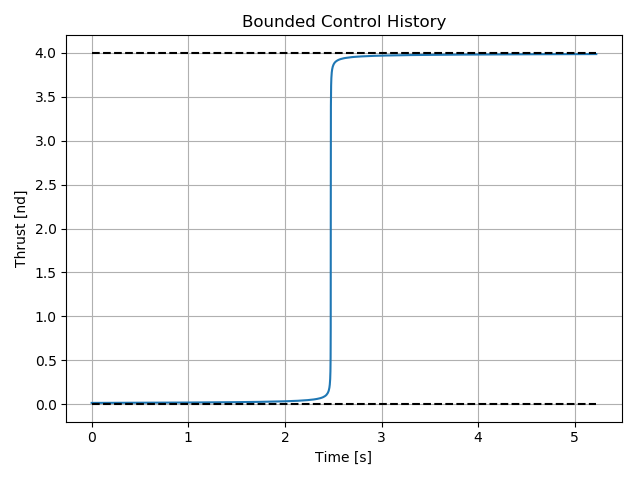
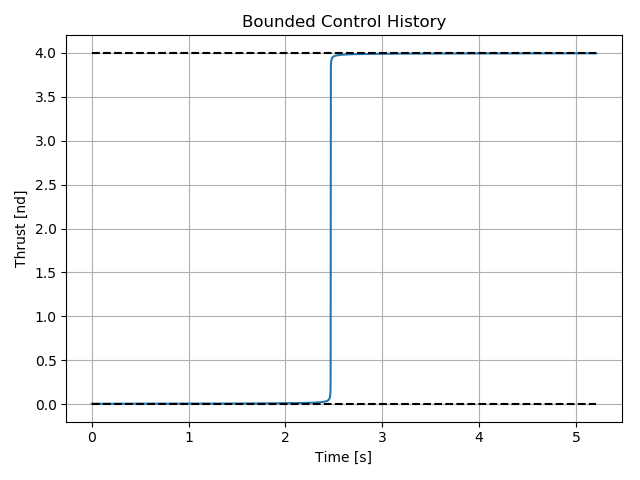
Ref #180 Adding some useful plots

Changed region(s): [[0.5, 0.0938, 0.9375, 0.1875], [0.1562, 0.7812, 0.5312, 0.8438], [0.875, 0.9062, 0.9062, 0.9375]]

diff --git a/examples/6-goddard/goddard.py b/examples/6-goddard/goddard.py
@@ -103,7 +103,7 @@ continuation_steps.add_step() \
 
 continuation_steps.add_step() \
     .num_cases(10, spacing='log') \
-    .const('eps', 0.0001)
+    .const('eps', 0.001)
 
 continuation_steps.add_step() \
     .num_cases(10, spacing='log') \
@@ -124,7 +124,32 @@ sol_set = beluga.solve(
 sol = sol_set[-1][-1]
 
 plt.figure()
-plt.plot(sol.t, np.sin(sol.u[:, 0]))
-plt.figure()
 plt.plot(sol.t, sol.y[:, 0])
+plt.xlabel('Time [s]')
+plt.ylabel('Altitude [nd]')
+plt.title('Altitude Profile')
+plt.grid('on')
+
+plt.figure()
+plt.plot(sol.t, sol.y[:, 1])
+plt.xlabel('Time [s]')
+plt.ylabel('Velocity [nd]')
+plt.title('Velocity Profile')
+plt.grid('on')
+
+plt.figure()
+plt.plot(sol.t, sol.y[:, 2])
+plt.xlabel('Time [s]')
+plt.ylabel('Mass [nd]')
+plt.title('Mass Profile')
+plt.grid('on')
+
+plt.figure()
+plt.plot(sol.t, thrust_max*(np.sin(sol.u[:, 0]) + 1)/2, label='Thrust')
+plt.plot(sol.t, 1 * d_c * sol.y[:, 1]**2 * np.exp(-h_c * (sol.y[:, 0] - h_0) / h_0), label='Drag')
+plt.xlabel('Time [s]')
+plt.ylabel('Force [nd]')
+plt.title('Forces')
+plt.grid('on')
+plt.legend()
 plt.show()

diff --git a/examples/6-goddard/README.rst b/examples/6-goddard/README.rst
@@ -1,93 +1,13 @@
-.. |plot0| image:: https://cdn.jsdelivr.net/gh/Rapid-Design-of-Systems-Laboratory/beluga@master/examples/2-brachistochrone/plot0.png
+.. |plot0| image:: https://cdn.jsdelivr.net/gh/Rapid-Design-of-Systems-Laboratory/beluga@master/examples/6-goddard/Goddard1.png
 
-.. |plot1| image:: https://cdn.jsdelivr.net/gh/Rapid-Design-of-Systems-Laboratory/beluga@master/examples/2-brachistochrone/plot1.png
+.. |plot1| image:: https://cdn.jsdelivr.net/gh/Rapid-Design-of-Systems-Laboratory/beluga@master/examples/6-goddard/Goddard2.png
 
-.. |plot2| image:: https://cdn.jsdelivr.net/gh/Rapid-Design-of-Systems-Laboratory/beluga@master/examples/2-brachistochrone/plot2.png
+.. |plot2| image:: https://cdn.jsdelivr.net/gh/Rapid-Design-of-Systems-Laboratory/beluga@master/examples/6-goddard/Goddard3.png
 
 Brachistochrone Problem
 =======================
 
 |plot0|
-
-Here, we're going to solve the Brachistochrone problem. First, import :code:`beluga` and :code:`logging`. :code:`beluga` is the optimal control solver and :code:`logging` will keep track of solver progress. We will also need pi (3.14) and a plotting tool. We will use the :code:`Python` built-in :code:`math.pi` and :code:`matplotlib`'s :code:`pyplot` module, but any approximation of :math:`\pi` and plotting tool will do::
-
-    import beluga
-    import logging
-    from math import pi
-    import matplotlib.pyplot as plt
-
-Initialize an optimal control problem in :code:`beluga` using::
-
-    ocp = beluga.OCP('brachistochrone')
-
-Next, we define the independent variable. In most problems, this is usually time::
-
-    ocp.independent('t', 's')
-
-As you can see, this has syntax of :code:`ocp.independent(variable_name, variable_units)`. The solver will take units into account for all inputs and attempt to automatically nondimensionalize problems. Next, we need to define the dynamic constraints (equations of motion) that must be satisfied. The syntax is :code:`ocp.state(state_name, state_rate, state_units)`::
-
-    ocp.state('x', 'v*cos(theta)', 'm')
-    ocp.state('y', 'v*sin(theta)', 'm')
-    ocp.state('v', 'g*sin(theta)', 'm/s')
-
-Note that we have used :code:`theta` in describing the rates of change, however they have not been defined yet. This is OK since it is a control variable and we are just defining an input script. The solver will figure out what the each term is based on it's definition. Next, we will define the control variable for our system with the syntax :code:`ocp.control(control_name, control_units)`::
-
-    ocp.control('theta','rad')
-
-These control variables are the parameters in the optimization package :code:`beluga`. To define non-optimization type quantities, use the :code:`constant` method::
-
-    ocp.constant('g', -9.81, 'm/s^2')
-
-In a single given optimization problem, gravity will not change, therefore the :code:`ocp.constant(const_name, const_val, const_units)` method was used. Next, let's define the path cost to minimize, :math:`L`::
-
-    ocp.path_cost('1', 's')
-
-For the Brachistochrone, we want to minimize time of travel. Therefore by integrating :math:`\int 1 \circ \gamma \; dt= \int 1 \; dt = t_f - t_0`, we are minimizing :math:`t_f - t_0`. We would like the bead to start and stop at specific locations, so let's set some boundary conditions::
-
-    ocp.constraints()
-    ocp.initial('x', 'm')
-    ocp.initial('y', 'm')
-    ocp.initial('v', 'm/s')
-    ocp.terminal('x-x_f', 'm')
-    ocp.terminal('y-y_f', 'm')
-
-We are fixing :math:`x` to start at the position, or rather the boundary condition :math:`x = 0` must be satisfied. The astute dynamicist will recognize that :math:`v_f` is free. :code:`beluga` can interpret a multitude of boundary conditions. Next, define the units in terms of states that have been define so the solver knows how to automatically scale all the variables::
-
-    ocp.scale(m='y', s='y/v', kg=1, rad=1)
-
-We told the solver that a meter is 1 :math:`y` and a meter per second is 1 :math:`y/v`. We also told it that kilograms and radians don't need to be scaled. Next, let's choose a numerical solver. Shooting sounds good::
-
-    bvp_solver = beluga.bvp_algorithm('Shooting')
-
-The :code:`Shooting` solver usually ends up being one of the best choices, however Collocation fundamentally works differently and, if a problem has a tough time with :code:`Shooting`, then :code:`Collocation` might be able to get the job done. To use :code:`Collocation` instead, just use::
-
-    bvp_solver = beluga.bvp_algorithm('Collocation')
-
-Now we have a problem and a solver, but that's not enough to solve the problem at hand. Optimal control problems are notoriously difficult and sensitive, so they need a good initial guess. Let's guess a solution to the Brachistochrone problem::
-
-    guess_maker = beluga.guess_generator('auto', start=[0,0,0], direction='forward', costate_guess = -0.1)
-
-So we guessed that :code:`beluga` will automatically handle us propagating forward with the initial positions of each of our states at 0, 0, and 0. Considering our initial boundary conditions were 0's, that wasn't difficult. On the other hand, :code:`beluga` uses methods that are typically known as `indirect methods`. Therefore it generates mathematical entities known as :code:`costates` with, potentially, no physical meaning. An initial guess is given for these as well. Since our first problem is small, some -0.1's will do nicely. So we came up with a guess, now let's string together a bunch of smaller optimal control problems to solve a much larger one, or rather a continuation set::
-
-    continuation_steps = beluga.init_continuation()
-    continuation_steps.add_step('bisection')
-    continuation_steps[-1].num_cases(21)
-    continuation_steps[-1].const('x_f', 10)
-    continuation_steps[-1].const('y_f',-10)
-
-So when we created :code:`continuation_steps`, it behaves likes a :code:`Python list()`. In this case there's only 1 continuation set. What this continuation set does is it drags out the terminal boundary conditions, :math:`x_f` and :math:`y_f`, to (10, -10). It will do this in 21 evenly spaced steps, using the previous solution as an initial guess into the next. Optimal control theory can be difficult, and even the simplest of problems won't converge, so lets use our :code:`logging` package to keep track of the output and progress::
-
-    beluga.add_logger(logging_level=logging.DEBUG)
-
-Finally. with all of the components defined let's solve the output::
-
-    sol = beluga.solve(ocp, method='traditional', bvp_algorithm=bvp_solver, steps=continuation_steps, guess_generator=guess_maker)
-
-We told :code:`beluga` to use the `traditional` method of optimal control theory based on Pontryagin's Minimum Principle. There are other choices available (RST LINK TO BELUGA CHOICES). The :code:`sol` result will take in a time and give out position and the optimal control. To use :code:`sol`, see (RST LINK TO TRAJECTORY()). To plot the trajectory, use :code:`matplotlib.pyplot`::
-
-    plt.plot(sol.y[0], sol.y[1])
-    plt.show()
-
 
 |plot1|
 
